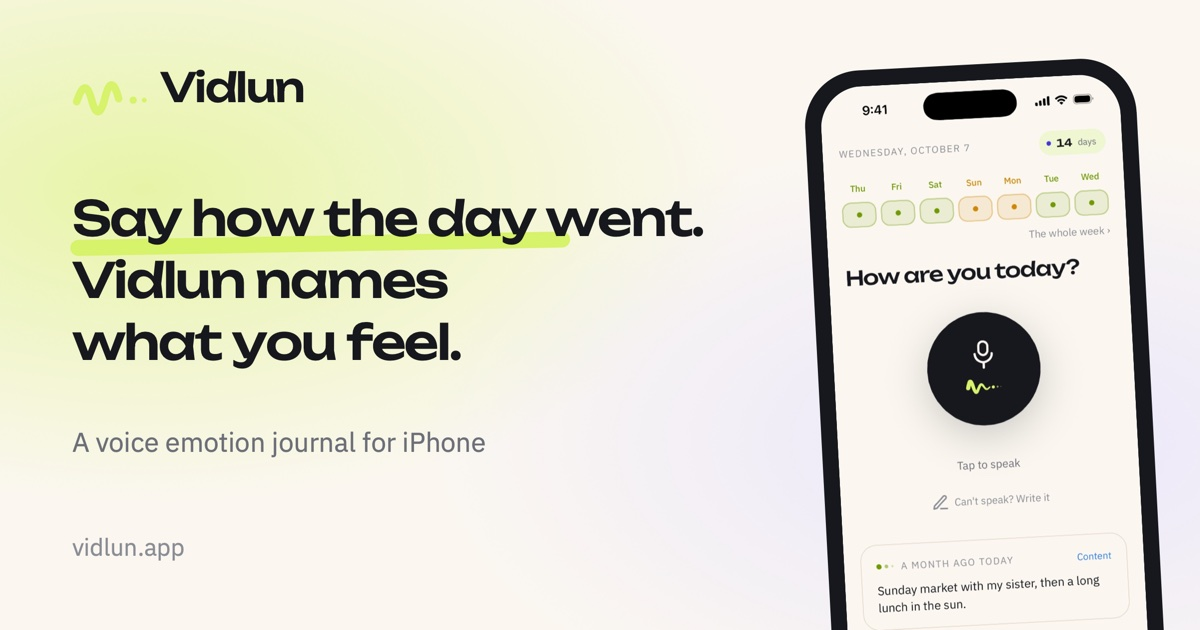
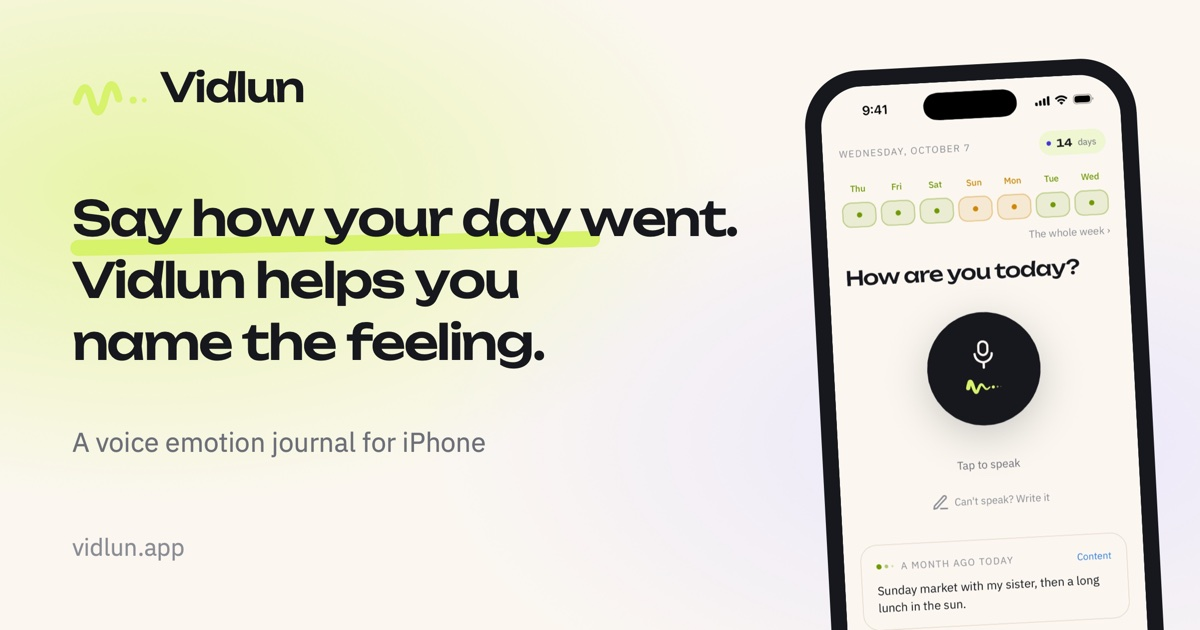
The landing in plain words
By the owner's word: the consent screen is not coming, so the landing no
longer speaks of consent, and every line is rewritten to be plain. What
leaves the phone is said as it is: only an entry's text goes to Claude by
Anthropic, to suggest emotions, without the voice or a name, and we do not
keep it. The vocabulary is 76 words, the decorative words are ones the app
still offers, the footer drops a link to a section that does not exist,
and the share images carry the new headline.

diff --git a/site/tools/og.py b/site/tools/og.py
@@ -11,8 +11,8 @@ plex = base64.b64encode((ROOT / 'assets/fonts/IBMPlexSans-Regular.ttf').read_byt
 OUT = ROOT / 'site/og'; OUT.mkdir(exist_ok=True)
 TMP = pathlib.Path('/tmp/vidlun-og'); TMP.mkdir(exist_ok=True)
 for lang, lines, sub, mark_w in (
-    ('uk', ['Скажи, як минув день.', 'Vidlun назве,', 'що ти відчуваєш.'], 'Голосовий щоденник емоцій для iPhone', 520),
-    ('en', ['Say how the day went.', 'Vidlun names', 'what you feel.'], 'A voice emotion journal for iPhone', 500),
+    ('uk', ['Розкажи, як минув день.', 'Vidlun підкаже,', 'що ти відчуваєш.'], 'Голосовий щоденник емоцій для iPhone', 580),
+    ('en', ['Say how your day went.', 'Vidlun helps you', 'name the feeling.'], 'A voice emotion journal for iPhone', 530),
 ):
     shot = base64.b64encode((ROOT / f'site/shots/{lang}-home-light-640.jpg').read_bytes()).decode()
     text = ''.join(f'<text x="72" y="{236 + i * 62}" font-family="Unbounded" font-size="48" fill="#16181D" letter-spacing="-1.8">{l}</text>' for i, l in enumerate(lines))

diff --git a/BACKLOG.md b/BACKLOG.md
@@ -1809,11 +1809,16 @@ Ultra q4_0 inside, 382 MB); 56 is superseded.
 
 **vidlun.app's terms and privacy were redeployed the same day** (owner's
 word) with the Parakeet Ultra / NVIDIA credit (CC BY 4.0), the 2 November
-texts and no echo — what the app itself carries. The landing went out
-unchanged, built from dd1813a: `site/src/copy.json` holds the consent
-release's copy (Anthropic named, "with your consent", a footer link to a
-consumer-health section the held-back privacy policy does not have), which
-waits for the consent screen like the texts e514f0c held back.
+texts and no echo — what the app itself carries. The landing first went
+out unchanged, built from dd1813a, because `site/src/copy.json` held the
+consent release's copy. Later the same day the owner dropped the consent
+idea and asked for the landing in plain words: it was rewritten in both
+languages and deployed. What leaves the phone is said as it is — only an
+entry's text, to Claude by Anthropic, to suggest emotions, no voice, no
+name, not kept by us. "125 emotions" became 76, the decorative words are
+ones the app still offers (in its own labels), the footer's link to a
+consumer-health section that does not exist went, and the share images
+carry the new headline (`site/tools/og.py`).
 
 - **"Your emotions" names the period picked.** Picking the 10th and 11th
   read as too many emotions; the counts were right (checked against the
